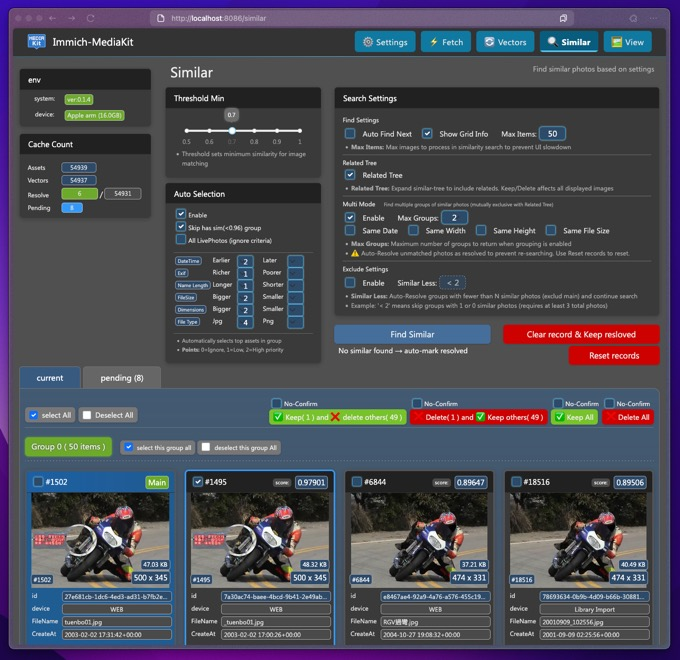
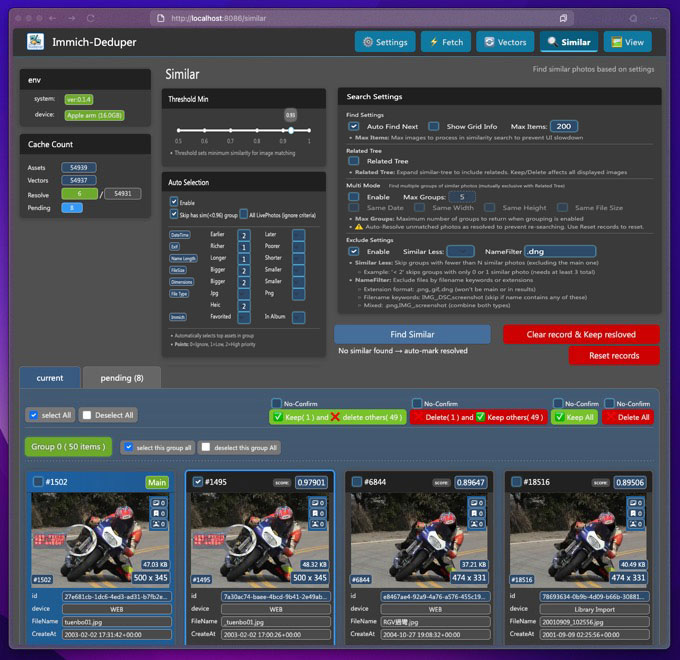
renamed: MediaKit → Deduper

diff --git a/src/assets/main.css b/src/assets/main.css
@@ -726,9 +726,11 @@ h3 { font-size: 1.68rem; }
 
 .card .igrid.divRows > div > *:nth-child(2n) { justify-self: start; }
 
-.card .igrid .icriteria { display: grid; grid-template-columns: 28% repeat(auto-fit, minmax(0, 1fr)); }
+.card .igrid .icriteria { display: grid; grid-template-columns: 28% repeat(4, 1fr); }
 
 .card .igrid .icriteria span { overflow: hidden; text-wrap: balance; }
+
+.card .igrid .icriteria.icriteria-wrap > *:nth-child(6) { grid-column-start: 2; }
 
 .card .irow { font-size: 14px; margin: 0; }
 

diff --git a/src/scss/main.scss b/src/scss/main.scss
@@ -1198,11 +1198,15 @@ $spac: ($pad * 2) + ($gx * 2) + $sideW + 10px;
 
 		.icriteria {
 			display: grid;
-			grid-template-columns: 28% repeat(auto-fit, minmax(0, 1fr)); // 第一个列30%，其余平均分配
+			grid-template-columns: 28% repeat(4, 1fr);
 
 			span {
 				overflow: hidden;
 				text-wrap: balance;
+			}
+
+			&.icriteria-wrap > *:nth-child(6) {
+				grid-column-start: 2;
 			}
 		}
 	}

diff --git a/src/chk.py b/src/chk.py
@@ -30,7 +30,7 @@ def ver() -> ChkInfo:
         import re
         verL = envs.version
 
-        url = "https://github.com/RazgrizHsu/immich-mediakit/blob/main/pyproject.toml"
+        url = "https://github.com/RazgrizHsu/immich-deduper/blob/main/pyproject.toml"
 
         try:
             txt = immich.getGithubRaw(url)
@@ -125,24 +125,24 @@ def immichPath() -> ChkInfo:
 
 def mkitData() -> ChkInfo:
     try:
-        if not envs.mkitData: return ChkInfo(False, 'MKIT_DATA not configured')
+        if not envs.mkitData: return ChkInfo(False, 'DEDUP_DATA not configured')
 
         if not os.path.exists(envs.mkitData):
             try:
                 os.makedirs(envs.mkitData, exist_ok=True)
             except Exception as e:
-                return ChkInfo(False, ['Cannot create MKIT_DATA directory', f'Path: {envs.mkitData}', str(e)])
+                return ChkInfo(False, ['Cannot create DEDUP_DATA directory', f'Path: {envs.mkitData}', str(e)])
 
-        if not os.path.isdir(envs.mkitData): return ChkInfo(False, ['MKIT_DATA is not a directory', f'Path: {envs.mkitData}'])
+        if not os.path.isdir(envs.mkitData): return ChkInfo(False, ['DEDUP_DATA is not a directory', f'Path: {envs.mkitData}'])
 
-        if not os.access(envs.mkitData, os.R_OK): return ChkInfo(False, ['MKIT_DATA is not readable', f'Path: {envs.mkitData}'])
+        if not os.access(envs.mkitData, os.R_OK): return ChkInfo(False, ['DEDUP_DATA is not readable', f'Path: {envs.mkitData}'])
 
-        if not os.access(envs.mkitData, os.W_OK): return ChkInfo(False, ['MKIT_DATA is not writable', f'Path: {envs.mkitData}'])
+        if not os.access(envs.mkitData, os.W_OK): return ChkInfo(False, ['DEDUP_DATA is not writable', f'Path: {envs.mkitData}'])
 
-        return ChkInfo(True, ['MKIT_DATA accessible', f'Path: {envs.mkitData}'])
+        return ChkInfo(True, ['DEDUP_DATA accessible', f'Path: {envs.mkitData}'])
 
     except Exception as e:
-        return ChkInfo(False, ['MKIT_DATA check failed', str(e)])
+        return ChkInfo(False, ['DEDUP_DATA check failed', str(e)])
 
 def immichLogic() -> ChkInfo:
     try:

diff --git a/src/conf.py b/src/conf.py
@@ -152,7 +152,7 @@ class cmds:
         assDel = co.tit('view_AssDel',desc='Delete asset')
 
 class ks:
-    title = "Immich-MediaKit"
+    title = "Immich-Deduper"
     cmd = cmds
 
     class glo:
@@ -260,18 +260,18 @@ class envs:
     isDock = False if not isDock else True
     immichPath:str = '/immich' if isDock else os.getenv('IMMICH_PATH', '')
     immichThumb:str = os.getenv('IMMICH_THUMB', '')
-    qdrantUrl:str = 'http://immich-mediakit-qdrant:6333' if isDock else os.getenv('QDRANT_URL','')
+    qdrantUrl:str = 'http://immich-deduper-qdrant:6333' if isDock else os.getenv('QDRANT_URL','')
     psqlHost:str = os.getenv('PSQL_HOST','')
     psqlPort:str = os.getenv('PSQL_PORT','')
     psqlDb:str = os.getenv('PSQL_DB','')
     psqlUser:str = os.getenv('PSQL_USER','')
     psqlPass:str = os.getenv('PSQL_PASS','')
-    mkitPort:str = os.getenv('MKIT_PORT', '8086')
+    mkitPort:str = os.getenv('DEDUP_PORT', '8086')
 
     if os.getcwd().startswith(os.path.join(pathRoot, 'tests')):
         mkitData = os.path.join(pathRoot, 'data/')
     else:
-        mkitData = 'data/' if isDock else os.getenv('MKIT_DATA', os.path.join(pathRoot, 'data/'))
+        mkitData = 'data/' if isDock else os.getenv('DEDUP_DATA', os.path.join(pathRoot, 'data/'))
         if not mkitData.endswith('/'): mkitData += '/'
 
     class pth:
@@ -340,8 +340,8 @@ class envs:
         lg.info(f"  IMMICH_PATH: {envs.immichPath}")
         lg.info(f"  IMMICH_THUMB: {envs.immichThumb}")
         lg.info(f"  QDRANT_URL: {envs.qdrantUrl}")
-        lg.info(f"  MKIT_PORT: {envs.mkitPort}")
-        lg.info(f"  MKIT_DATA: {envs.mkitData}")
+        lg.info(f"  DEDUP_PORT: {envs.mkitPort}")
+        lg.info(f"  DEDUP_DATA: {envs.mkitData}")
         lg.info(f"  IS_DOCKER: {envs.isDock}")
         lg.info(f"  IS_DEV: {envs.isDev}")
 

diff --git a/src/pages/similar.py b/src/pages/similar.py
@@ -100,7 +100,7 @@ def layout(autoId=None):
                 cardSets.renderThreshold(),
                 cardSets.renderAutoSelect(),
                 #------------------------------------------------------------------------
-            ], width=4),
+            ], width=5),
 
             dbc.Col([
 
@@ -119,7 +119,7 @@ def layout(autoId=None):
                     ], width=6, className="text-end"),
                 ], className="mt-3"),
 
-            ], width=8),
+            ], width=7),
         ], className=""),
 
         #====== top end =========================================================
@@ -524,7 +524,7 @@ def sim_UpdateButtons(dta_now, dta_ste, dta_cnt):
     cntSel = len(ste.selectedIds) if ste.selectedIds else 0
     disRm = cntSel == 0
     disRS = cntSel == 0
-    
+
     disExport = cntAssets <= 0
 
     # lg.info(f"[sim:UpdBtns] disFind[{disFind}]")
@@ -926,6 +926,7 @@ def sim_FindSimilar(doReport: IFnProg, sto: models.ITaskStore):
             if len(grps) >= mxGrp: msg.append(f"Reached maximum group limit ({mxGrp} groups).")
         else:
             root = grps[0].asset
+            assert root is not None
             cntInfos = len(grps[0].bseInfos)
             cntAll = len(assets)
             hasRoot = any(a.autoId == root.autoId for a in assets)

diff --git a/src/ui/cardSets.py b/src/ui/cardSets.py
@@ -174,7 +174,7 @@ def renderAutoSelect():
                     dbc.Select(id=k.id(k.auSelTypePng), options=optWeights, value=db.dto.ausl_TypPng, disabled=not db.dto.ausl, size="sm", className="me-1"), #type:ignore
                     htm.Label("Heic", className="me-2"),
                     dbc.Select(id=k.id(k.auSelTypeHeic), options=optWeights, value=db.dto.ausl_TypHeic, disabled=not db.dto.ausl, size="sm"), #type:ignore
-                ], className="icriteria"),
+                ], className="icriteria icriteria-wrap"),
 
                 htm.Div([
                     htm.Span(htm.Span("Immich", className="tag txt-smx me-1")),

diff --git a/src/pages/settings.py b/src/pages/settings.py
@@ -38,7 +38,7 @@ def layout():
                             htm.Div([
                                 htm.Div([
                                     htm.I(),
-                                    htm.Small("MediaKit Data Path", className="text-muted")
+                                    htm.Small("Deduper Data Path", className="text-muted")
                                 ], className="d-flex align-items-center"),
                                 htm.Div([
                                     htm.Span(envs.mkitData or "(Not configured)", className="fw-semibold text-break me-2"),

diff --git a/src/app.py b/src/app.py
@@ -76,7 +76,7 @@ if __name__ == "__main__":
     try:
         from conf import envs
         lg.info("========================================================================")
-        lg.info(f"[MediaKit] Start ... ver[{ envs.version }] {'DEBUG Mode' if conf.envs.isDev else ''}")
+        lg.info(f"[Deduper] Start ... ver[{ envs.version }] {'DEBUG Mode' if conf.envs.isDev else ''}")
         lg.info("========================================================================")
 
         envs.showVars()

diff --git a/src/ui/nav.py b/src/ui/nav.py
@@ -56,7 +56,7 @@ def renderFooter():
                 dbc.Col(
                     htm.Div([
                         f"{ks.title} © 2025 ",
-                        htm.A(" GitHub ", href="https://github.com/RazgrizHsu/immich-mediakit", target="_blank")
+                        htm.A(" GitHub ", href="https://github.com/RazgrizHsu/immich-deduper", target="_blank")
                     ], className="text-center text-sm"),
                     width=12
                 ),

diff --git a/src/util/log.py b/src/util/log.py
@@ -11,7 +11,7 @@ KeepDays = 3
 log_dir = os.path.join(os.path.dirname(os.path.dirname(os.path.dirname(__file__))), 'data', 'logs')
 os.makedirs(log_dir, exist_ok=True)
 
-log_file = os.path.join(log_dir, 'mediakit.log')
+log_file = os.path.join(log_dir, 'deduper.log')
 
 class filterLv(logging.Filter):
     def filter(self, record):

diff --git a/src/db/vecs.py b/src/db/vecs.py
@@ -13,7 +13,7 @@ from util.err import mkErr
 
 lg = log.get(__name__)
 
-keyColl = "mediakit"
+keyColl = "deduper"
 
 conn: Optional[QdrantClient] = None
 

diff --git a/README.md b/README.md
@@ -2,9 +2,13 @@
 
 <p align="center"><img src="src/assets/logo.png" width="256" height="256" alt="logo" /></p>
 <p align="center">
+  Immich-Deduper<br/>
+  <small>(Previously: Immich MediaKit)</small>
+</p>
+<p align="center">
 <small>
-An extension toolkit for <a href="https://github.com/immich-app/immich">Immich</a>
-enabling advanced management capabilities through AI-powered similarity detection
+AI-powered duplicate photo finder and remover for <a href="https://github.com/immich-app/immich">Immich</a>.<br/>
+Find and remove similar/duplicate images using deep learning.
 </small>
 </p>
 <p align="center">
@@ -35,19 +39,19 @@ enabling advanced management capabilities through AI-powered similarity detectio
 
 ## Version Compatibility
 
-**MediaKit v0.1.11+** supports all Immich versions through automatic schema detection.
+**Deduper v0.1.11+** supports all Immich versions through automatic schema detection.
 
 **Automatic Schema Detection:**
-MediaKit automatically detects and adapts to your Immich database schema:
+Deduper automatically detects and adapts to your Immich database schema:
 - Table names (plural vs singular: assets/asset, albums/album, tags/tag, users/user)
 - Junction table column names (plural vs singular: albumsId/albumId, assetsId/assetId, tagsId/tagId)
 
-No manual configuration needed - MediaKit works seamlessly across all Immich versions.
+No manual configuration needed - Deduper works seamlessly across all Immich versions.
 
 **Immich Schema Evolution:**
 - **Immich v1.136.0**: Changed main table names from plural to singular (assets → asset, albums → album, tags → tag, users → user)
 - **Immich v2.3.0**: Changed junction table column names from plural to singular (albumsId → albumId, assetsId → assetId, tagsId → tagId)
-- MediaKit automatically handles all these variations
+- Deduper automatically handles all these variations
 
 ---
 
@@ -146,13 +150,13 @@ No manual configuration needed - MediaKit works seamlessly across all Immich ver
 - **External library considerations**
   - Ensure external library paths are not set to read-only if using Docker Compose
   - Enable Immich's recycle bin feature before processing external libraries
-  - Remember that MediaKit reads from Immich thumbnails, so original file locations don't affect similarity detection
+  - Remember that Deduper reads from Immich thumbnails, so original file locations don't affect similarity detection
 
 ---
 
 ## System Startup
 
-When MediaKit starts up, it performs several system checks as shown below:
+When Deduper starts up, it performs several system checks as shown below:
 
 <p align="center">
 <img src="docs/chk.gif" alt="System startup checks" />
@@ -168,10 +172,10 @@ If you encounter any startup errors or version mismatches, follow the update ins
 
 ## Logging
 
-MediaKit automatically logs system operations and errors to help with troubleshooting.
+Deduper automatically logs system operations and errors to help with troubleshooting.
 
 **Log Location:**
-- Logs are stored in the `MKIT_DATA/logs/` directory
+- Logs are stored in the `DEDUP_DATA/logs/` directory
 - Log files are rotated daily for better organization
 
 **Troubleshooting:**
@@ -207,13 +211,13 @@ Choose the installation method that suits your needs:
 - A configured `.env` file (see below)
 
 ### Set up your Immich database
-Before you can use mediakit, you need to set your database up, so MediaKit can connect to it. This explanation covers only Immich installations via docker compose.
+Before you can use deduper, you need to set your database up, so Deduper can connect to it. This explanation covers only Immich installations via docker compose.
 
-#### Immich on the same host as mediakit
-If your Immich installation is on the same machine than you want to install MediaKit on, a docker network can be used to connect to the db.
+#### Immich on the same host as deduper
+If your Immich installation is on the same machine than you want to install Deduper on, a docker network can be used to connect to the db.
 To create the network execute the following command (on the host, not in the docker container):
 ```bash
-docker network create immich-mediakit
+docker network create immich-deduper
 ```
 
 Then add the network to your immich database container and to the docker compose:
@@ -222,19 +226,19 @@ services:
   database:
     container_name: immich_postgres
     image: ghcr.io/immich-app/postgres:14-vectorchord0.3.0-pgvectors0.2.0
-    networks: # Add the immich-mediakit network to the db to allow immich-mediakit to access the db
-      - immich-mediakit
+    networks: # Add the immich-deduper network to the db to allow immich-deduper to access the db
+      - immich-deduper
 
 
-networks: # Add the immich-mediakit network to the immich docker compose without any indentation
-  immich-mediakit:
+networks: # Add the immich-deduper network to the immich docker compose without any indentation
+  immich-deduper:
     external: true
 ```
 
 After updating, restart Immich to apply the changes. The `PSQL_HOST` in your `.env` file should match the container name of the database.
 
-#### Immich on a different host as mediakit
-If your Immich installation is on a different machine than you want to install MediaKit on, you need to expose the PostgreSQL port. Note that this exposes your database to anyone in the hosts network, so use a secure password!
+#### Immich on a different host as deduper
+If your Immich installation is on a different machine than you want to install Deduper on, you need to expose the PostgreSQL port. Note that this exposes your database to anyone in the hosts network, so use a secure password!
 Add the following port mapping to your Immich's docker compose:
 
 ```yaml
@@ -246,7 +250,7 @@ services:
       - "5432:5432"  # Add this line to expose PostgreSQL
 ```
 
-After updating, restart Immich to apply the changes. The exposed port (5432 in this example) should match the `PSQL_PORT` setting in your MediaKit `.env` file.
+After updating, restart Immich to apply the changes. The exposed port (5432 in this example) should match the `PSQL_PORT` setting in your Deduper `.env` file.
 
 
 ### Option 1: Docker Compose
@@ -256,7 +260,7 @@ Using Docker Compose is the easiest installation method, automatically including
 
 1. **Copy Docker Configuration Files**
 
-   The compose has a few differences when you're installing MediaKit on the same host vs on a different host than Immich. Choose the same as you have for setting up the database.
+   The compose has a few differences when you're installing Deduper on the same host vs on a different host than Immich. Choose the same as you have for setting up the database.
 
    **Same host configuration:**
    - [docker-compose.yml](./docker/same-host/docker-compose.yml)
@@ -274,14 +278,14 @@ Using Docker Compose is the easiest installation method, automatically including
    - `PSQL_HOST`: Database connection (service name for same-host, IP address for different-host)
    - `IMMICH_PATH`: Path to your Immich upload directory  
    - `IMMICH_THUMB`: (Optional) Path for separate thumbnail directory (requires additional volume mount)
-   - `MKIT_DATA`: Directory for MediaKit data storage
+   - `DEDUP_DATA`: Directory for Deduper data storage
    - `QDRANT_URL`: (Optional) Custom Qdrant database URL for non-Docker environments or custom container setups
 
 3. **Create Docker Network (Same-host only)**
 
    If using same-host setup, create the shared network:
    ```bash
-   docker network create immich-mediakit
+   docker network create immich-deduper
    ```
 
 4. **Update Immich Configuration (Required)**
@@ -295,7 +299,7 @@ Using Docker Compose is the easiest installation method, automatically including
    **CPU Version (Default):**
    The default configuration uses the CPU-only image:
    ```yaml
-   image: razgrizhsu/immich-mediakit:latest
+   image: razgrizhsu/immich-deduper:latest
    ```
    No additional configuration needed.
 
@@ -305,7 +309,7 @@ Using Docker Compose is the easiest installation method, automatically including
    
    a. Change the image to the CUDA version:
    ```yaml
-   image: razgrizhsu/immich-mediakit:latest-cuda
+   image: razgrizhsu/immich-deduper:latest-cuda
    ```
    
    b. Uncomment the deploy configuration:
@@ -334,8 +338,8 @@ Using Docker Compose is the easiest installation method, automatically including
 7. **Access Application**
    - Open browser to `http://localhost:8086`
 
-8. **Updating MediaKit**
-   To update MediaKit when using Docker Compose, run:
+8. **Updating Deduper**
+   To update Deduper when using Docker Compose, run:
    ```bash
    docker compose down && docker compose pull && docker compose up -d
    ```
@@ -359,8 +363,8 @@ For custom environments and development needs.
 
 2. **Clone Source Code**
    ```bash
-   git clone https://github.com/RazgrizHsu/immich-mediakit.git
-   cd immich-mediakit
+   git clone https://github.com/RazgrizHsu/immich-deduper.git
+   cd immich-deduper
    ```
 
 3. **Configure Environment Variables**
@@ -439,6 +443,6 @@ Please consider the following:
 - The developers are not responsible for any data loss that may occur from using this tool
 - Vector similarity is based on AI models and may not perfectly match human perception of similarity
 
-Immich-MediaKit is provided "as is" without warranty of any kind. By using this software, you acknowledge the potential risks involved in managing and potentially modifying your photo collection.
+Immich-Deduper is provided "as is" without warranty of any kind. By using this software, you acknowledge the potential risks involved in managing and potentially modifying your photo collection.
 
 Happy organizing! We hope this tool enhances your Immich experience by helping you maintain a clean, duplicate-free library.
